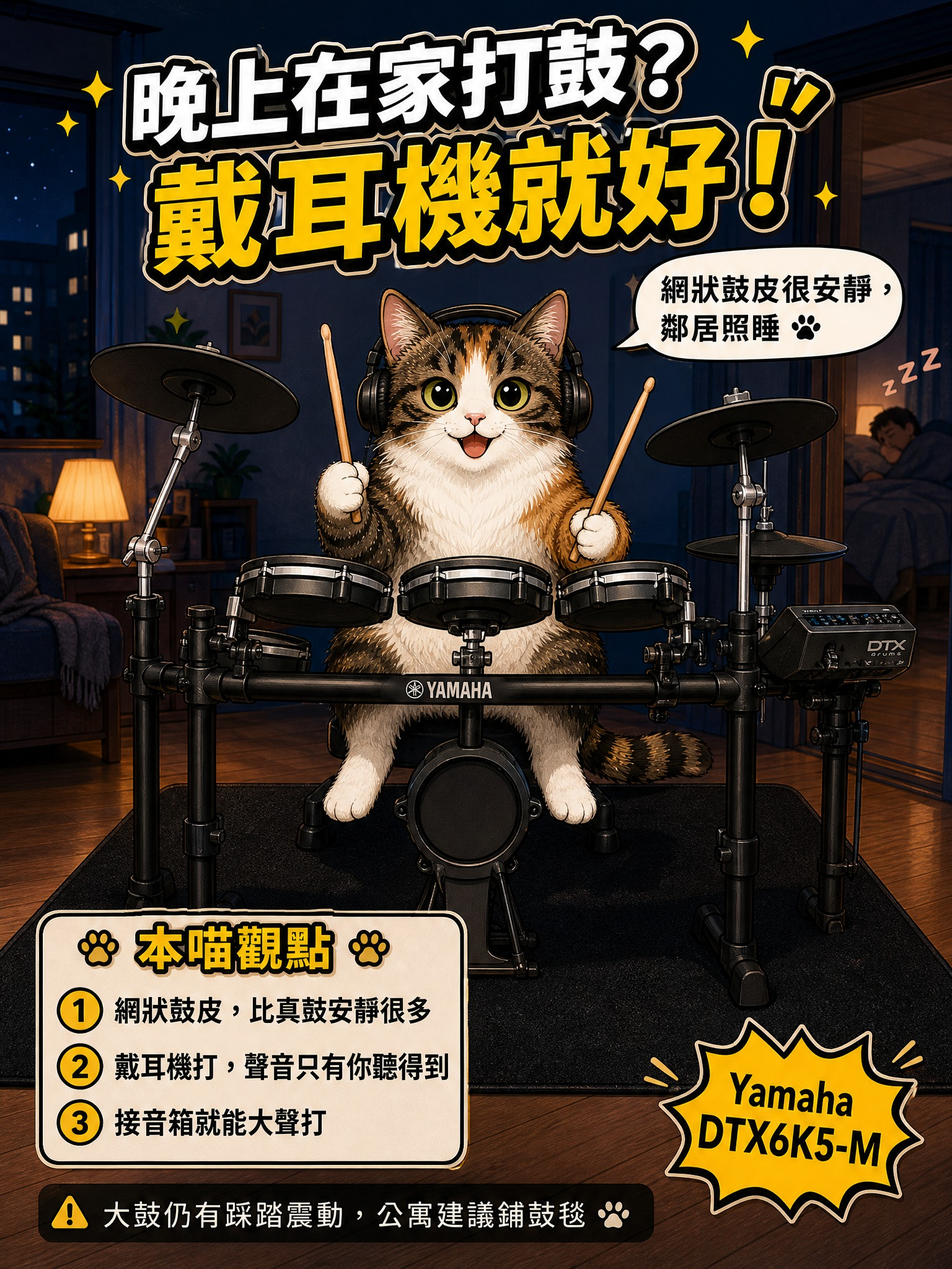
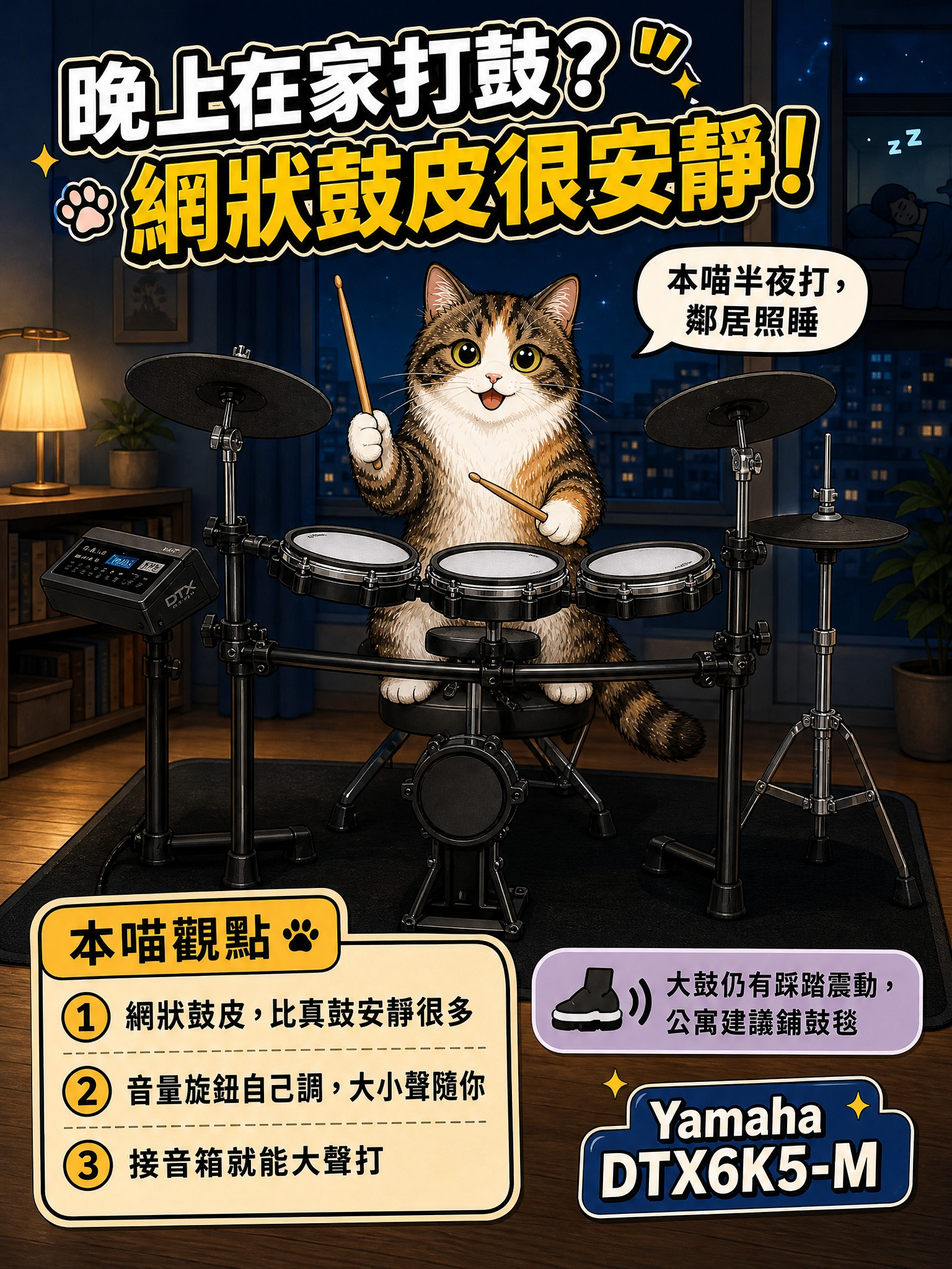
店貓鼓圖照真鼓方向重出 16 張

diff --git a/social/2026-11-26_shopcat/index.html b/social/2026-11-26_shopcat/index.html
@@ -61,7 +61,7 @@ USB 接電腦還能錄音。本喵負責點歌。
 主機一樣是 TD-07，音色、藍牙、USB 都一樣。想要大鼓墊選新款，預算優先選舊款（舊款本店獨家販售）。
 購買即附大鼓踏板，門市購買另有超值好禮。
 #Roland #TD07DMK2 #TD07DMK #電子鼓比較
-</pre></details><h2 id="DTX6K5-M">Yamaha DTX6K5-M<small>4 張</small></h2><div class="g"><a href="DTX6K5-M/DTX6K5-M_01.jpg"><img loading="lazy" src="DTX6K5-M/DTX6K5-M_01.jpg"><span>DTX_A_打電動</span></a><a href="DTX6K5-M/DTX6K5-M_02.jpg"><img loading="lazy" src="DTX6K5-M/DTX6K5-M_02.jpg"><span>DTX_B_最新旗艦</span></a><a href="DTX6K5-M/DTX6K5-M_03.jpg"><img loading="lazy" src="DTX6K5-M/DTX6K5-M_03.jpg"><span>DTX_C_70組鼓聲</span></a><a href="DTX6K5-M/DTX6K5-M_04.jpg"><img loading="lazy" src="DTX6K5-M/DTX6K5-M_04.jpg"><span>DTX_D_晚上在家</span></a></div><details><summary>文案</summary><pre>店貓ㄅㄅ × Yamaha DTX6K5-M 貼文文案 2026-11-26（規格照 Yamaha 原廠）
+</pre></details><h2 id="DTX6K5-M">Yamaha DTX6K5-M<small>4 張</small></h2><div class="g"><a href="DTX6K5-M/DTX6K5-M_01.jpg"><img loading="lazy" src="DTX6K5-M/DTX6K5-M_01.jpg"><span>DTX_A_打電動</span></a><a href="DTX6K5-M/DTX6K5-M_02.jpg"><img loading="lazy" src="DTX6K5-M/DTX6K5-M_02.jpg"><span>DTX_B_最新旗艦</span></a><a href="DTX6K5-M/DTX6K5-M_03.jpg"><img loading="lazy" src="DTX6K5-M/DTX6K5-M_03.jpg"><span>DTX_C_70組鼓聲</span></a><a href="DTX6K5-M/DTX6K5-M_04.jpg"><img loading="lazy" src="DTX6K5-M/DTX6K5-M_04.jpg"><span>DTX_D_網狀鼓皮很安靜</span></a></div><details><summary>文案</summary><pre>店貓ㄅㄅ × Yamaha DTX6K5-M 貼文文案 2026-11-26（規格照 Yamaha 原廠）
 
 【A 打鼓也能打電動】
 誰說練鼓很無聊？本喵練鼓都是用玩的。
@@ -83,8 +83,8 @@ DTX6 系列最新、最高的一台，本喵打過最像真鼓的。
 #YamahaDTX6K5M #DTXPRO #電子鼓
 
 【D 晚上在家打鼓】
-晚上想打鼓？戴耳機就好。
-網狀鼓皮比真鼓安靜很多，戴耳機打，聲音只有你聽得到，鄰居照睡。想大聲就接音箱。
+晚上想打鼓？網狀鼓皮很安靜。
+網狀鼓皮比真鼓安靜很多，音量旋鈕自己調，大小聲隨你，本喵半夜打，鄰居照睡。想大聲就接音箱。
 大鼓還是會有踩踏的震動，住公寓的話建議鋪一張鼓毯。
 #YamahaDTX6K5M #在家打鼓 #電子鼓
 </pre></details><h2 id="FP-40">Roland FP-40<small>6 張</small></h2><div class="g"><a href="FP-40/FP-40_01.jpg"><img loading="lazy" src="FP-40/FP-40_01.jpg"><span>IG_1_開箱</span></a><a href="FP-40/FP-40_02.jpg"><img loading="lazy" src="FP-40/FP-40_02.jpg"><span>IG_2_半夜練琴</span></a><a href="FP-40/FP-40_03.jpg"><img loading="lazy" src="FP-40/FP-40_03.jpg"><span>IG_3_空間</span></a><a href="FP-40/FP-40_04.jpg"><img loading="lazy" src="FP-40/FP-40_04.jpg"><span>官網_橫幅</span></a><a href="FP-40/FP-40_05.jpg"><img loading="lazy" src="FP-40/FP-40_05.jpg"><span>角色設定_A</span></a><a href="FP-40/FP-40_06.jpg"><img loading="lazy" src="FP-40/FP-40_06.jpg"><span>角色設定_B</span></a></div><details><summary>文案</summary><pre>店貓ㄅㄅ × Roland FP-40（水豚君風格 v2）貼文文案 2026-11-26
